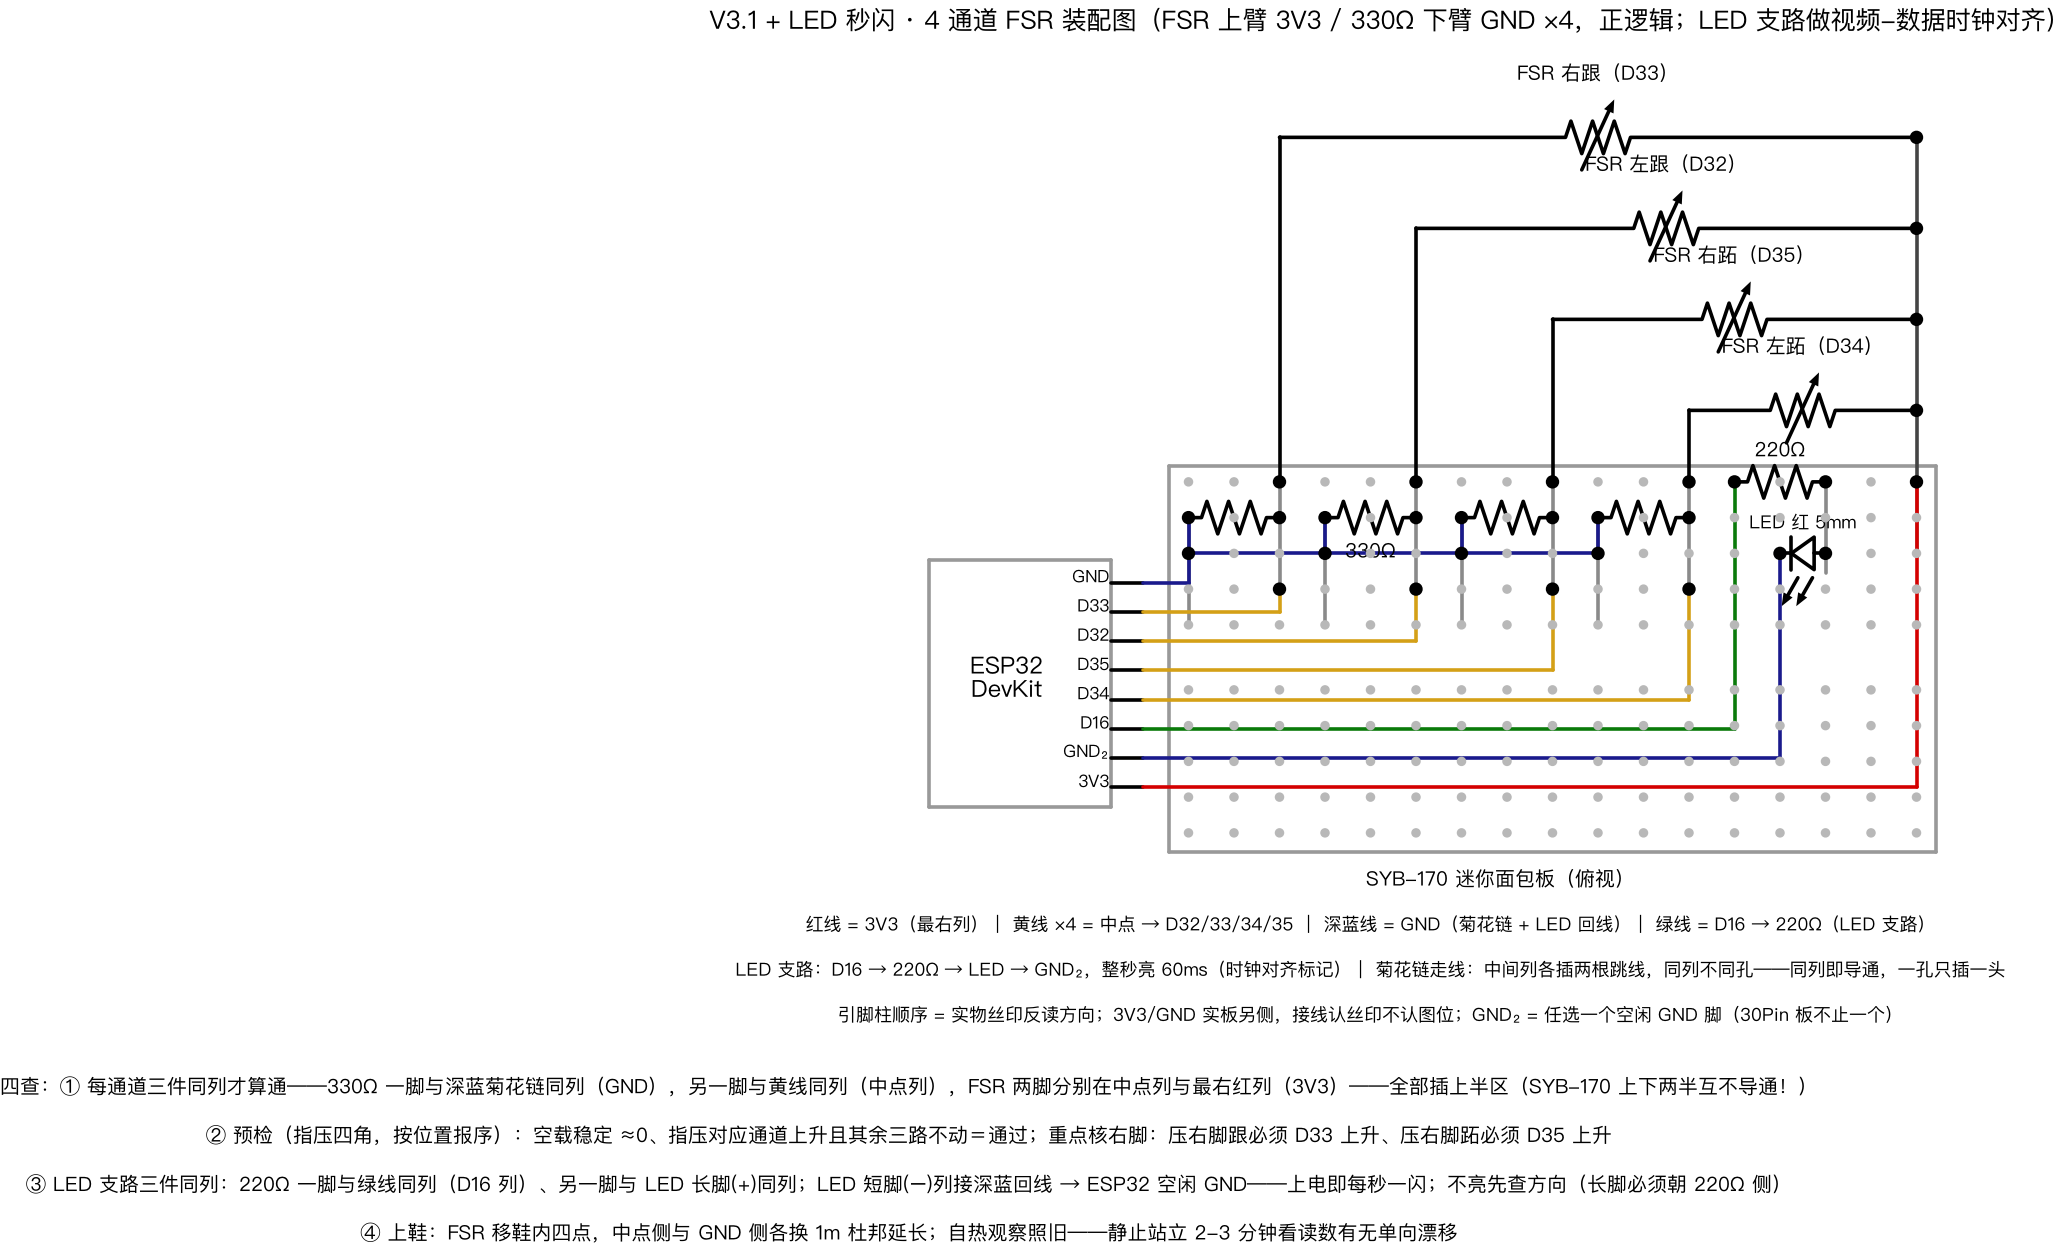
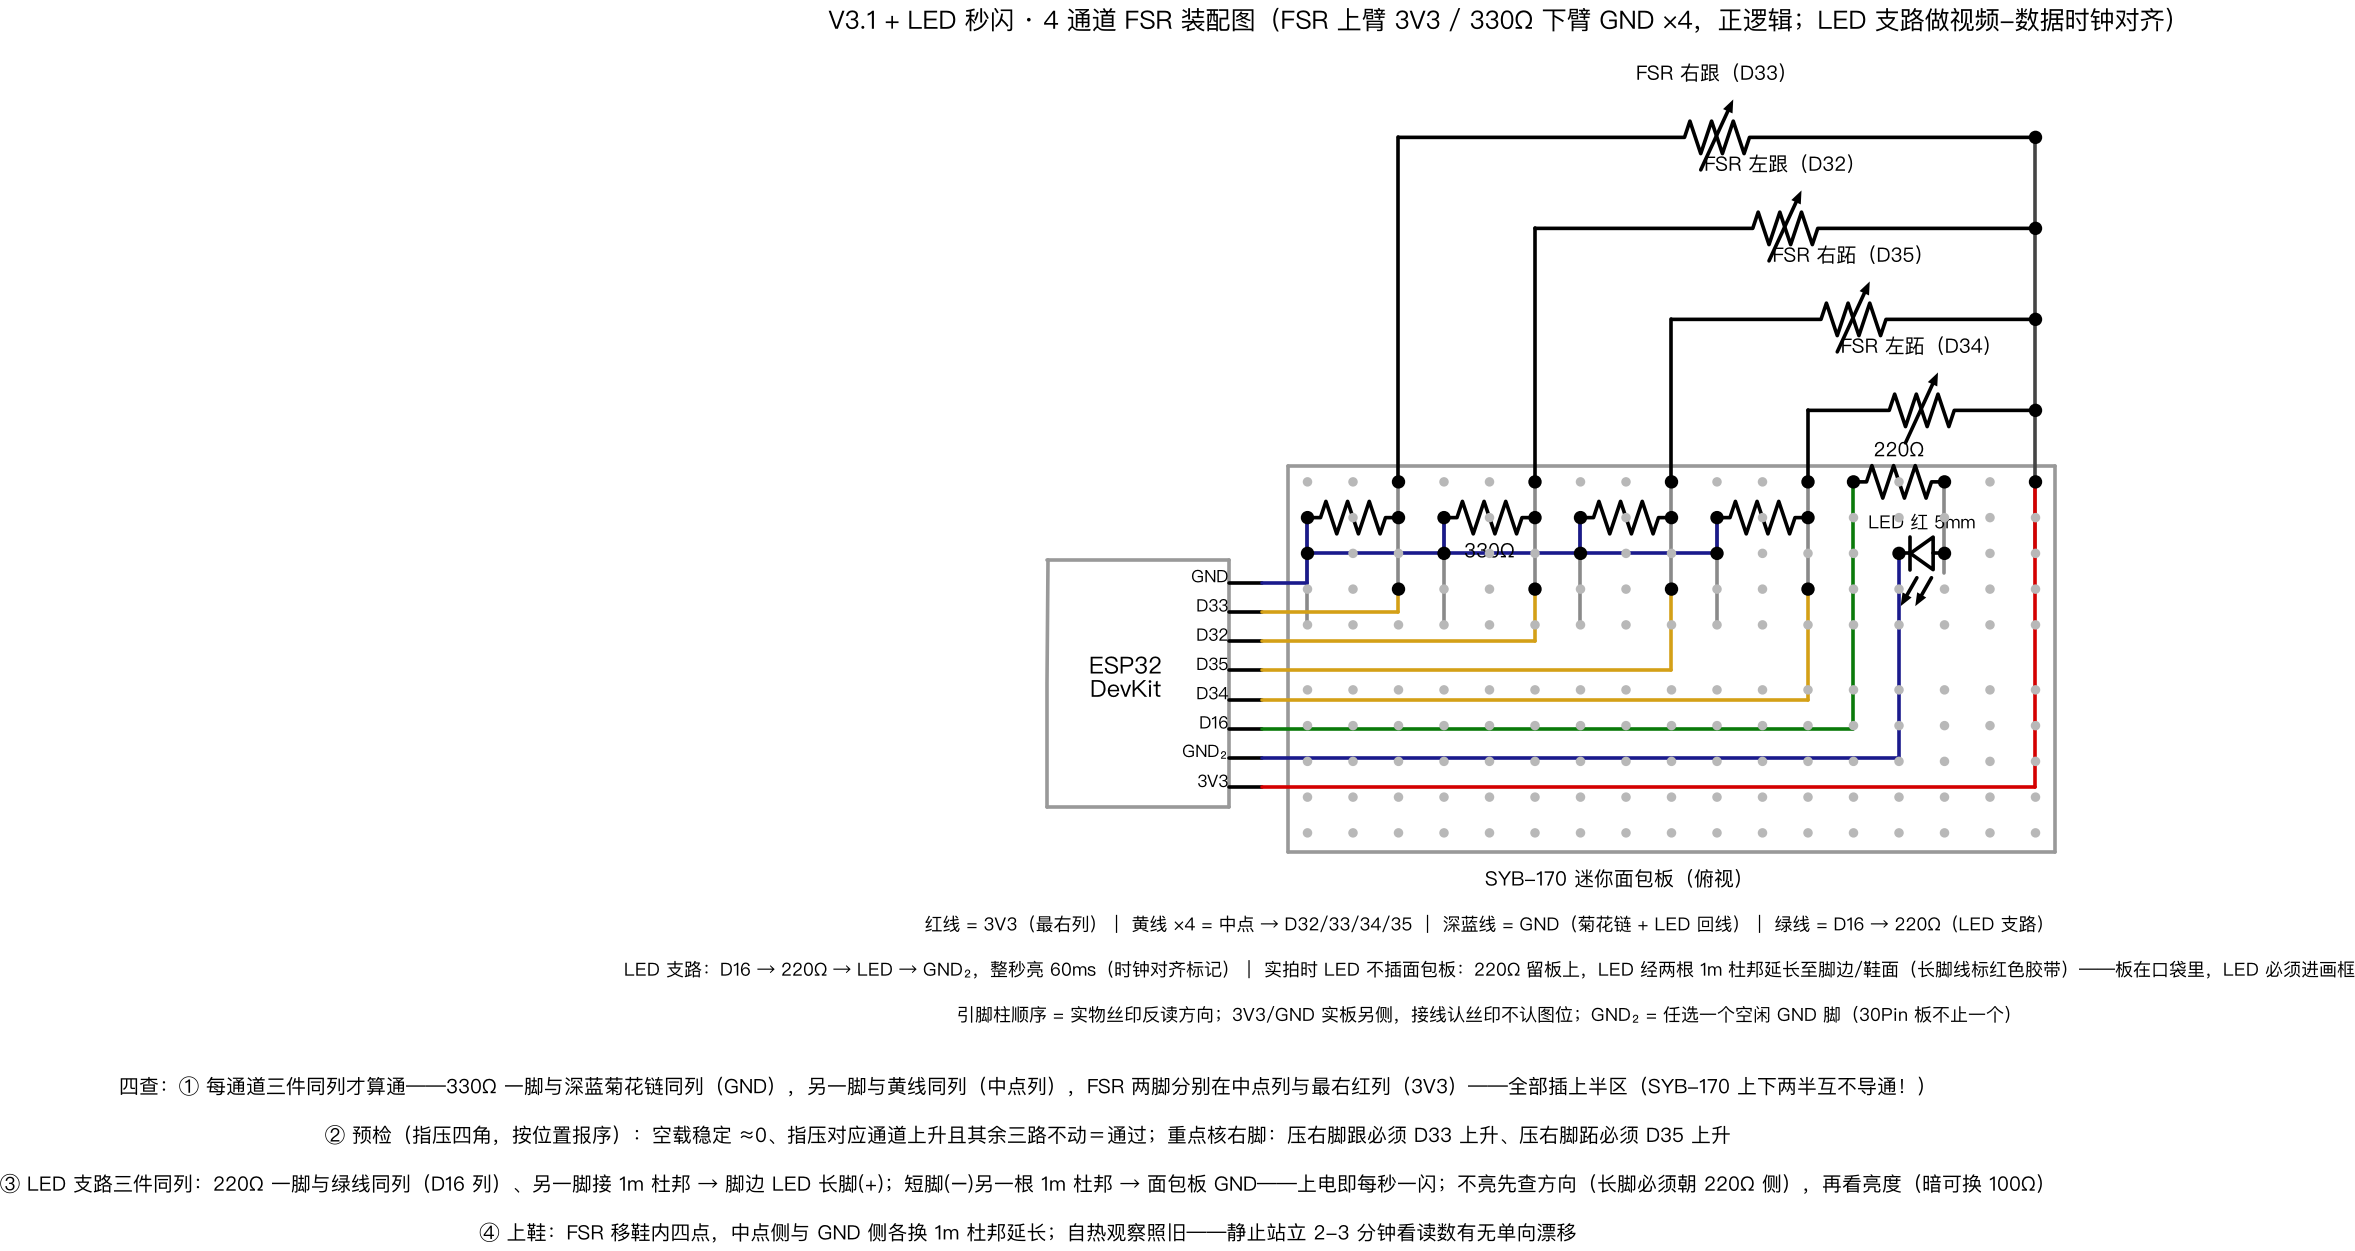
docs: 装配图图注补 LED 远置方案——板在口袋拍不到，LED 经两根 1m 杜邦延长至脚边/鞋面，220Ω 留板上限流

diff --git a/draw_v3_1_4ch_led.py b/draw_v3_1_4ch_led.py
@@ -137,7 +137,7 @@ with schemdraw.Drawing(file=OUT, dpi=130, show=False) as d:
     note(7.6, 1.0,
          "红线 = 3V3（最右列）｜ 黄线 ×4 = 中点 → D32/33/34/35 ｜ 深蓝线 = GND（菊花链 + LED 回线）｜ 绿线 = D16 → 220Ω（LED 支路）", 10)
     note(7.6, 0.3,
-         "LED 支路：D16 → 220Ω → LED → GND₂，整秒亮 60ms（时钟对齐标记）｜ 菊花链走线：中间列各插两根跳线，同列不同孔——同列即导通，一孔只插一头", 10)
+         "LED 支路：D16 → 220Ω → LED → GND₂，整秒亮 60ms（时钟对齐标记）｜ 实拍时 LED 不插面包板：220Ω 留板上，LED 经两根 1m 杜邦延长至脚边/鞋面（长脚线标红色胶带）——板在口袋里，LED 必须进画框", 10)
     note(7.6, -0.4,
          "引脚柱顺序 = 实物丝印反读方向；3V3/GND 实板另侧，接线认丝印不认图位；GND₂ = 任选一个空闲 GND 脚（30Pin 板不止一个）", 10)
     note(7.9, 14.9,
@@ -149,8 +149,8 @@ with schemdraw.Drawing(file=OUT, dpi=130, show=False) as d:
          "② 预检（指压四角，按位置报序）：空载稳定 ≈0、指压对应通道上升且其余三路不动＝通过；"
          "重点核右脚：压右脚跟必须 D33 上升、压右脚跖必须 D35 上升", 11)
     note(0.5, -3.0,
-         "③ LED 支路三件同列：220Ω 一脚与绿线同列（D16 列）、另一脚与 LED 长脚(+)同列；LED 短脚(−)列接深蓝回线 → ESP32 空闲 GND——"
-         "上电即每秒一闪；不亮先查方向（长脚必须朝 220Ω 侧）", 11)
+         "③ LED 支路三件同列：220Ω 一脚与绿线同列（D16 列）、另一脚接 1m 杜邦 → 脚边 LED 长脚(+)；短脚(−)另一根 1m 杜邦 → 面包板 GND——"
+         "上电即每秒一闪；不亮先查方向（长脚必须朝 220Ω 侧），再看亮度（暗可换 100Ω）", 11)
     note(0.5, -3.75,
          "④ 上鞋：FSR 移鞋内四点，中点侧与 GND 侧各换 1m 杜邦延长；自热观察照旧——静止站立 2-3 分钟看读数有无单向漂移", 11)
 
